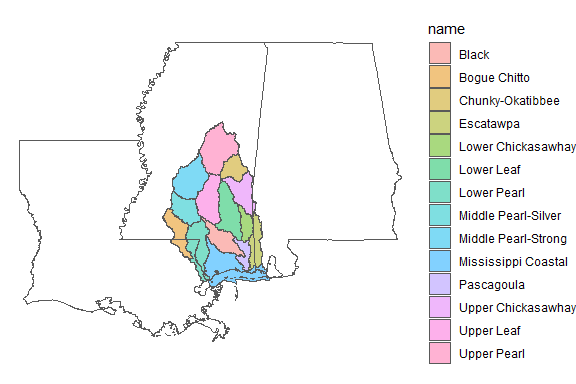
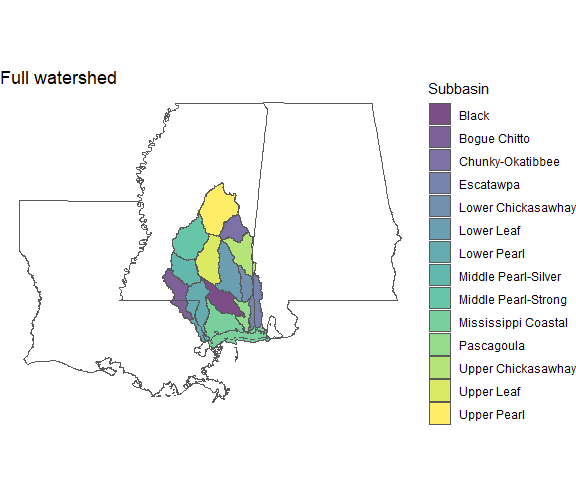
updated readme

diff --git a/README.md b/README.md
@@ -22,27 +22,20 @@ pak::pak("CMEP-MS/msepBoundaries")
 
 ## Examples
 
-Here are a couple of examples. First load the libraries:
+Here are a couple of examples. First load the libraries and use
+`{tigris}` to get state outlines (`{tigris}` uses boundary data from the
+US Census Bureau):
 
 ``` r
 library(msepBoundaries)
-library(ggplot2)
 library(dplyr)
-#> 
-#> Attaching package: 'dplyr'
-#> The following objects are masked from 'package:stats':
-#> 
-#>     filter, lag
-#> The following objects are masked from 'package:base':
-#> 
-#>     intersect, setdiff, setequal, union
 library(tigris)
-#> To enable caching of data, set `options(tigris_use_cache = TRUE)`
-#> in your R script or .Rprofile.
 options(tigris_use_cache = TRUE)
+library(ggplot2)
+
+# get the outlines of MS, AL, and LA
 lamsal <- states(cb = TRUE) |> 
     filter(NAME %in% c("Mississippi", "Alabama", "Louisiana"))
-#> Retrieving data for the year 2021
 ```
 
 ### Full Outline
@@ -53,31 +46,33 @@ The outline of the entire watershed.
 ggplot() +
     geom_sf(data = outline_full,
             fill = "blue",
-            alpha = 0.5) +
+            alpha = 0.6) +
     geom_sf(data = lamsal,
             fill = NA) +
-    theme_void()
+    theme_void() +
+    ggtitle("Full watershed")
 ```
 
-<img src="man/figures/README-unnamed-chunk-2-1.png" width="100%" />
+![](man/figures/README-unnamed-chunk-2-1.png)<!-- -->
 
 ### Subbasins
 
 Subbasins (HUC8) for the entire watershed.
 
-The outline of the entire watershed.
-
 ``` r
 ggplot() +
     geom_sf(data = subbasins_full,
             aes(fill = name),
-            alpha = 0.5) +
+            alpha = 0.7) +
     geom_sf(data = lamsal,
             fill = NA) +
-    theme_void()
+    scale_fill_viridis_d() +
+    theme_void() +
+    labs(title = "Full watershed",
+         fill = "Subbasin")
 ```
 
-<img src="man/figures/README-unnamed-chunk-3-1.png" width="100%" />
+![](man/figures/README-unnamed-chunk-3-1.png)<!-- -->
 
 ### Land-only subbasins, and only Mississippi
 
@@ -88,10 +83,13 @@ Mississippi Sound, and restrict the area to the state of Mississippi.
 ggplot() +
     geom_sf(data = subbasins_ms_land,
             aes(fill = name),
-            alpha = 0.5) +
+            alpha = 0.7) +
     geom_sf(data = lamsal,
             fill = NA) +
-    theme_void()
+    theme_void() +
+    scale_fill_viridis_d() +
+    labs(title = "MS-only, cartographic boundaries",
+         fill = "Subbasin")
 ```
 
-<img src="man/figures/README-unnamed-chunk-4-1.png" width="100%" />
+![](man/figures/README-unnamed-chunk-4-1.png)<!-- -->
